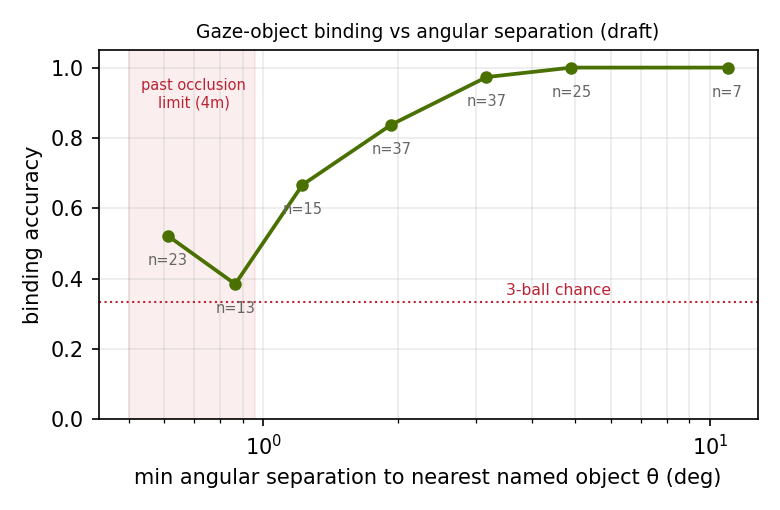
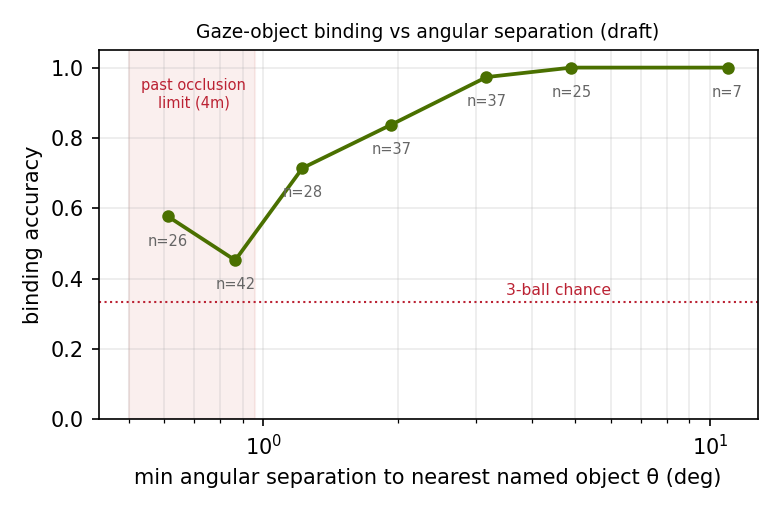
08-25 眼动夜入账:σ/遮挡裁决点拿下(θ1.05 无遮挡 80% vs 遮挡 33%),E1 封箱
主曲线 204 trial;u1 剔除并披露(车位残偏 5.8cm 在正对站侧向 0.6° 受害,
斜位站径向分量无害有 c1_2 反证);u3 边走 14/15 填 E1-walk;u2 不再需要;
终稿 Fig.4 需按 beyond_occ 拆双系列。

Changed region(s): [[0.1846, 0.2353, 0.4923, 0.6176]]

diff --git a/Eye_Tracker/tools/collect_e1.py b/Eye_Tracker/tools/collect_e1.py
@@ -36,6 +36,12 @@ RECS = [
     (R/"2026_08_20/001/c2_score.csv", "c2", "新房", "v9", "2m 正对", set()),
     (R/"2026_08_20/002/c4_score.csv", "c4", "新房", "v9", "4.36m α20.6°", {"beyond_occ"}),
     (R/"2026_08_20/003/c4_score.csv", "c4", "新房", "v9", "4.52m α14.5°", {"beyond_occ"}),
+    # 08-25 斜位三连 + 边走(车位偏移 5.8cm 实测:斜位站侧向分量 <1cm 不受害;
+    # u1 正对站侧向 3.7cm+后排邻近受害,整条剔除并披露,不入 RECS)
+    (R/"2026_08_25/c1_1/c4_score.csv", "c4", "新房", "v9", "4.25m α22.2°", {"beyond_occ"}),
+    (R/"2026_08_25/c1_2/c4_score.csv", "c4", "新房", "v9", "4.31m α26.9°", set()),
+    (R/"2026_08_25/c1_3/c4_score.csv", "c4", "新房", "v9", "3.77m α26.7°", set()),
+    (R/"2026_08_25/u3/u3_score.csv",   "u3", "新房", "v9", "2.5m 边走", {"walking"}),
 ]
 BINS = [0.5, 0.75, 1.0, 1.5, 2.5, 4.0, 6.0, 20.0]
 
@@ -89,7 +95,8 @@ def main():
         w.writerows(all_rows)
 
     trials = [r for r in all_rows if r["outcome"] in ("hit", "miss")
-              and "stress" not in r["tags"] and r["theta_deg"] != ""]
+              and not ({"stress", "walking"} & set(r["tags"].split("|")))
+              and r["theta_deg"] != ""]
     th = np.array([float(r["theta_deg"]) for r in trials])
     ok = np.array([r["outcome"] == "hit" for r in trials])
     with (OUT / "curve.csv").open("w", newline="", encoding="utf-8") as f:

diff --git a/docs/E1_RESULTS.md b/docs/E1_RESULTS.md
@@ -43,3 +43,24 @@
 待补:c4-A(3m,拉尺 M3.00/L2.87,θ≈1.5°)与 c4-B(4m,M4.00/L3.88,θ≈1.05°,
 间隙 7.3cm 无遮挡)各一条,把"开始塌"的位置钉死。**斜位必须拉卷尺**(本夜两条又是目测,
 偏到极限外——歪打正着补了下降段,但 1.0-1.5° 区间还空)。
+
+## 08-25 眼动夜(斜位三连 + 边走;E1 数据封箱)
+
+| 录像 | 站位实测 | θ(球间) | 表观间隙 | 成绩 | 处置 |
+|---|---|---|---|---|---|
+| 08_25/c1_1 | 4.25m α22.2° | 0.92° | 5.7cm<球径=遮挡 | 5/15≈chance | 入曲线(beyond_occ) |
+| 08_25/c1_2 | 4.31m α26.9° | **1.05°** | 6.9cm=无遮挡 | **12/15 (80%)** | **σ/遮挡裁决点** |
+| 08_25/c1_3 | 3.77m α26.7° | 1.20° | 无遮挡 | 10/15 (67%) | 入曲线 |
+| 08_25/u1 | 3.70m 正对 | 2.3/2.7° | 无遮挡 | 10/15(异常) | **剔除,披露** |
+| 08_25/u3 | 2.5m 边走 | — | — | **14/15 (93%)** | E1-walk 专项 |
+
+**σ vs 遮挡之争闭合**:同为 ~1°,无遮挡(c1_2)80% vs 遮挡(c1_1)33%——塌陷主因
+是物理遮挡,不是视线噪声;u2(7m)不再需要。
+**剔除披露**:当晚台车曾被挪动又手工归位,残余偏移实测 5.8cm(三球高票落点中位 vs
+地图质心,共同向量 (−3.7,−4.5)cm)。该偏移沿三个斜位站视线方向分解后侧向 <1cm
+(纯径向,对角度绑定不可见,c1_2 的 80% 亦为反证),斜位三连与边走保留;
+u1 正对站侧向分量 3.7cm(≈0.6°)叠加后排水果邻近,全场票面 <0.5、缺 4 项,
+整条剔除——这是继 08_18/003(定位空窗)后第二条剔除记录,原因均为实测环境
+偏差而非结果不合意。u1 角档(2.3-2.7°)原曲线已有 37 trial 覆盖。
+**主曲线更新:204 trial**;⚠ 出终稿 Fig.4 时 0.75-1.0 箱必须按 beyond_occ 标签
+拆成"遮挡/无遮挡"两个系列画(合并画会把 33% 与 80% 平均成 45% 的假象)。
